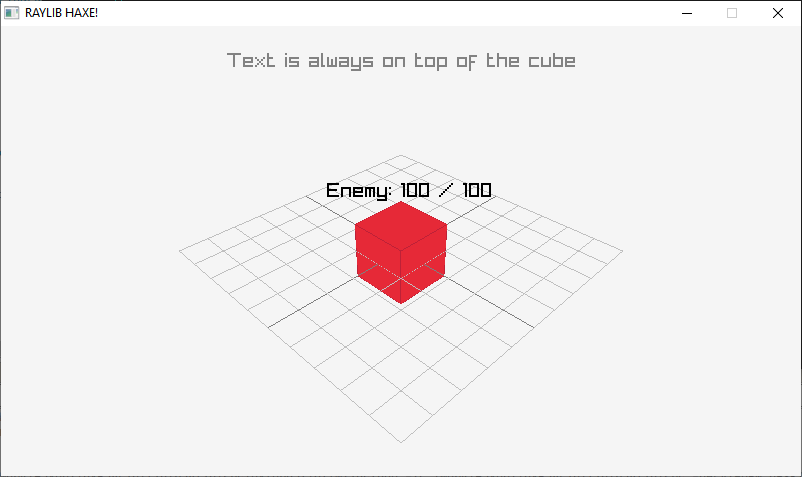
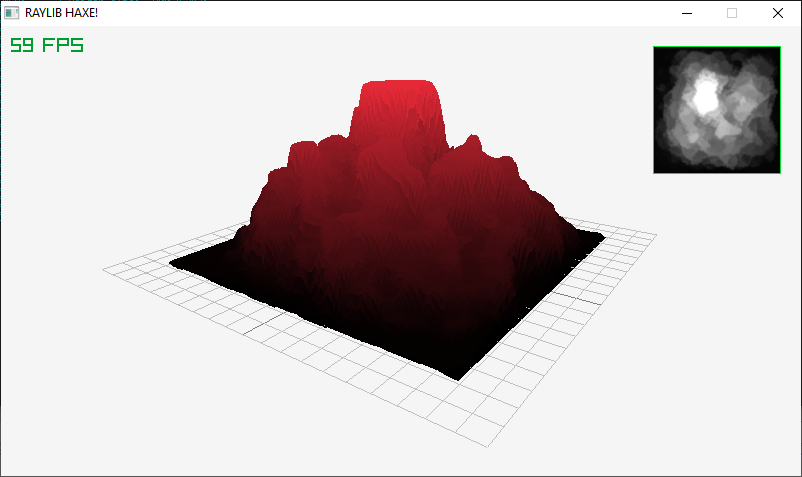
update readme

diff --git a/README.md b/README.md
@@ -16,13 +16,15 @@ haxelib git raylib-haxe https://github.com/haxeui/raylib-haxe
 package;
 
 import RayLib.*;
-import RayLib.Colors.*;
 import RayLib.Camera;
-import RayLib.Vector2;
-import RayLib.Vector3;
-import RayLib.CameraProjection;
 import RayLib.CameraMode;
+import RayLib.Colors.*;
+import RayLib.MaterialMapIndex;
+import RayLib.Vector3;
 import cpp.RawPointer;
+import RayLib.CameraProjection;
+import RayLib.Texture2D;
+import RayLib.Vector2;
 
 class Main {
     static function main() {
@@ -31,40 +33,46 @@ class Main {
         
         InitWindow(screenWidth, screenHeight, "RAYLIB HAXE!");
         
-        var camera = Camera.create();
-        camera.position = Vector3.create(10, 10, 10);
-        camera.target = Vector3.create(0, 0, 0);
-        camera.up = Vector3.create(0, 1, 0);
-        camera.fovy = 45;
-        camera.projection = CameraProjection.PERSPECTIVE;
+        var camera = Camera.create(Vector3.create(18, 18, 18), Vector3.create(0, 0, 0), Vector3.create(0, 1, 0), 45, 0);
+
+        var image = LoadImage("../resources/heightmap.png");
+        var texture = LoadTextureFromImage(image); 
         
-        var cubePosition = Vector3.create(0, 0, 0);
-        var cubeScreenPosition = Vector2.create(0, 0);
+        var mesh = GenMeshHeightmap(image, Vector3.create(16, 8, 16));
+        var model = LoadModelFromMesh(mesh); 
         
-        SetCameraMode(camera, CameraMode.FREE);
+        model.materials[0].maps[MaterialMapIndex.DIFFUSE].texture = texture;
+        var mapPosition = Vector3.create( -8, 0, -8);
         
-        SetTargetFPS(60);
+        UnloadImage(image);
+        
+        SetCameraMode(camera, CameraMode.ORBITAL);
+        
+        SetTargetFPS(60); 
         
         while (!WindowShouldClose()) {
             UpdateCamera(RawPointer.addressOf(camera));
             
-            cubeScreenPosition = GetWorldToScreen(Vector3.create(cubePosition.x, cubePosition.y + 2.5, cubePosition.z), camera);
-
             BeginDrawing();
                 ClearBackground(RAYWHITE);
                 
                 BeginMode3D(camera);
-                    DrawCube(cubePosition, 2, 2, 2, RED);
-                    DrawCubeWires(cubePosition, 2, 2, 2, MAROON);
-                    DrawGrid(10, 1);
+                    DrawModel(model, mapPosition, 1, RED);
+                    DrawGrid(20, 1);
                 EndMode3D();
                 
-                DrawText("Enemy: 100 / 100", Std.int(cubeScreenPosition.x - MeasureText("Enemy: 100/100", 20) / 2), Std.int(cubeScreenPosition.y), 20, BLACK);
-                DrawText("Text is always on top of the cube", Std.int((screenWidth - MeasureText("Text is always on top of the cube", 20)) / 2), 25, 20, GRAY);
+                DrawTexture(texture, screenWidth - texture.width - 20, 20, WHITE);
+                DrawRectangleLines(screenWidth - texture.width - 20, 20, texture.width, texture.height, GREEN);
+                
+                DrawFPS(10, 10);
             EndDrawing();
         }
+        
+        UnloadTexture(texture);
+        UnloadModel(model);
         
         CloseWindow();
     }
 }
+
 ```
